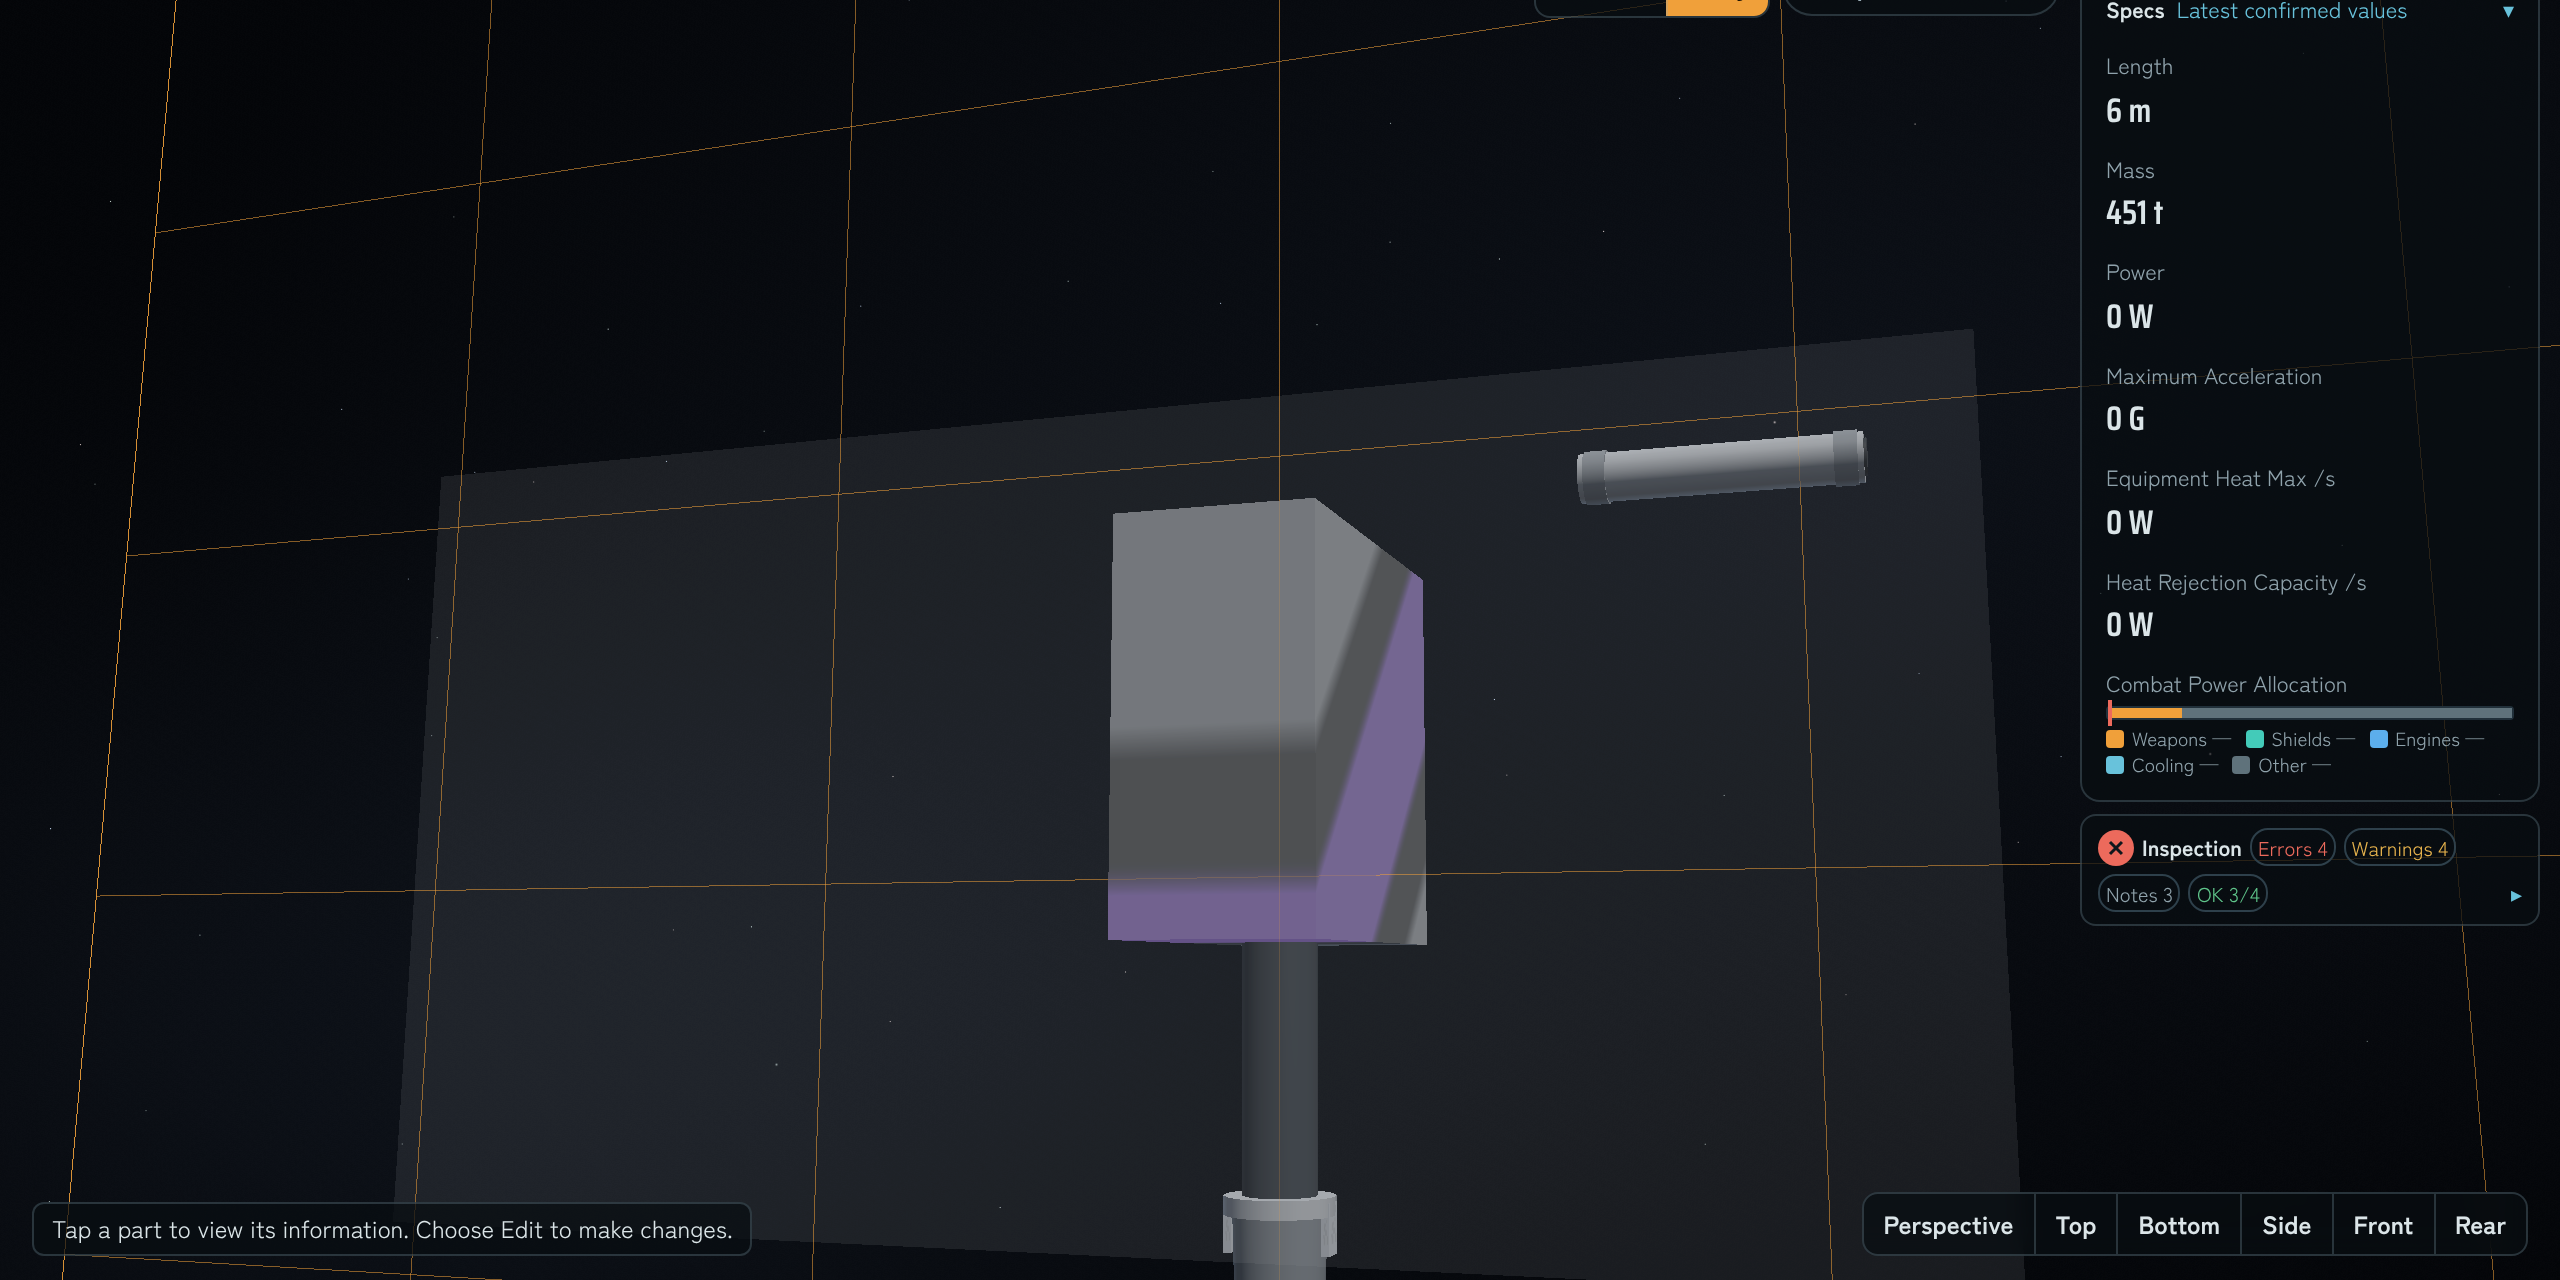
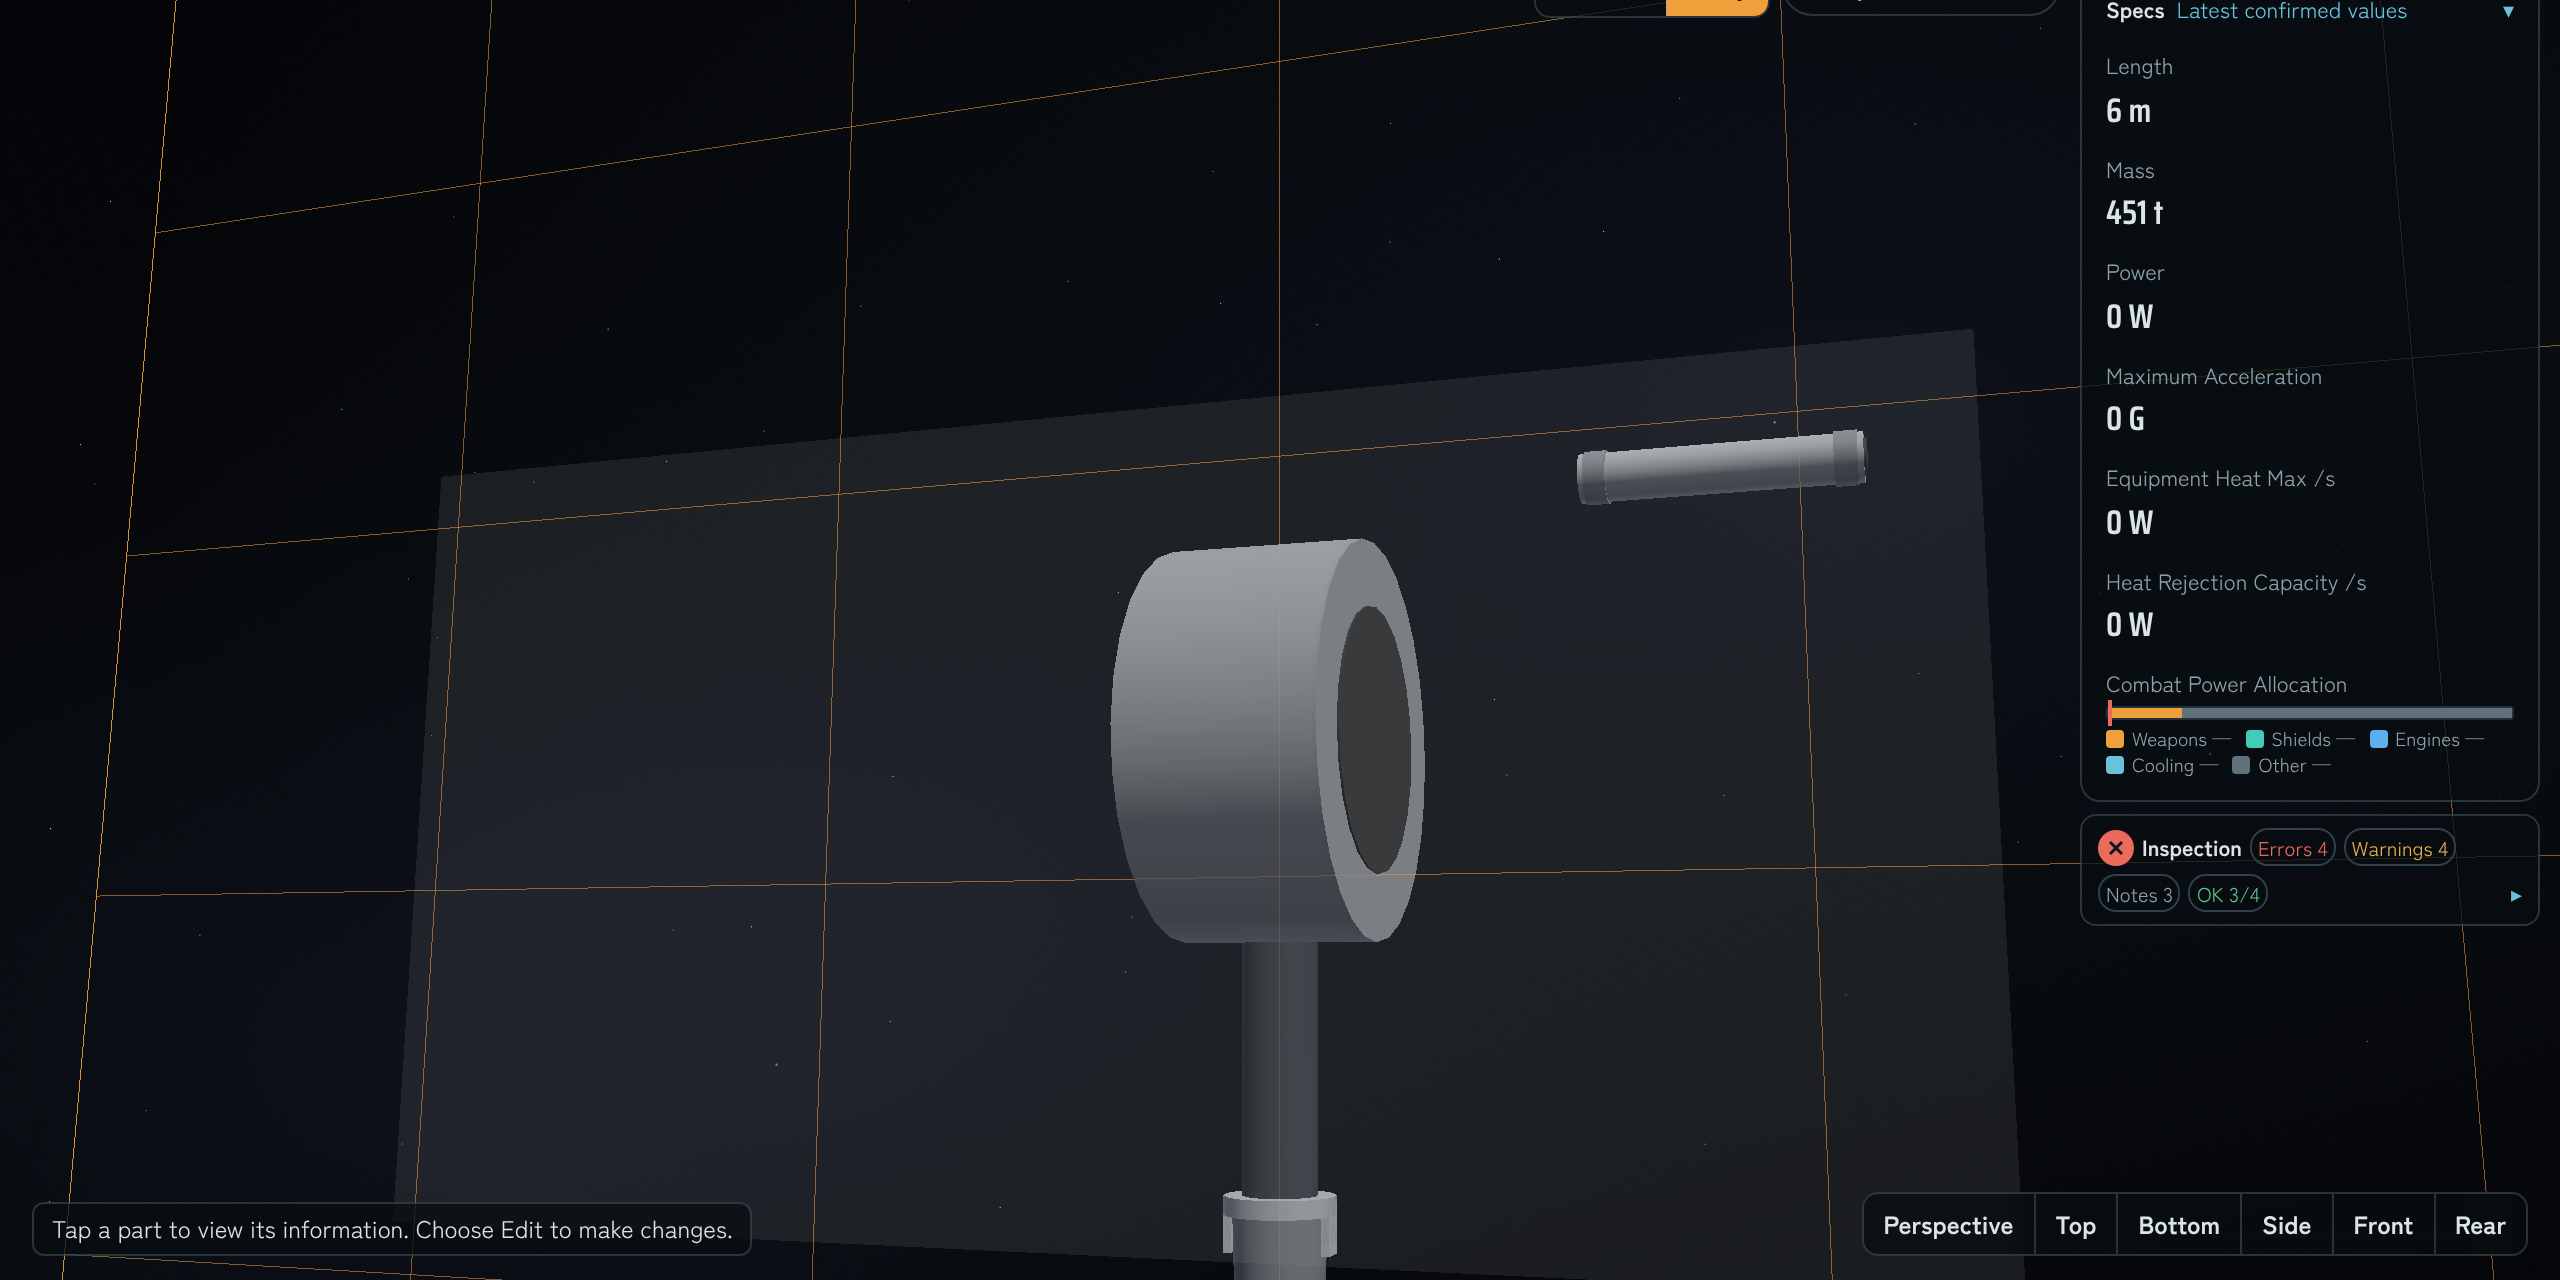
A ring bomb bay is drawn as a ring (user 2026-11-26); browser evidence
Claude-Session: https://claude.ai/code/session_01GGYoFi4wrX6vaJUt9WdesY

Changed region(s): [[0.4062, 0.375, 0.5625, 0.75]]

diff --git a/js/gfx.js b/js/gfx.js
@@ -2279,6 +2279,9 @@ function meshOnePart(out,p,ship,opt,glow){
     if(k==='cockpit'&&!p.room){const canopy=C.canopyTriangles?.(p);if(canopy)triangleMesh(out.struct,canopy,opt.coded?color:CANOPY_GLASS,36);else sphere(C.isInternal(p)?out.interior:out.struct,p.c,p.d/2,opt.coded?color:CANOPY_GLASS,10,4);return;}
     if(k==='astromech'){const r=p.d/2,u=C.norm(p.dir||[0,1,0]),h=p.d*1.05,base=C.sub(p.c,C.mul(u,h/2)),top=C.add(p.c,C.mul(u,h*.18));axisFrustum(C.isInternal(p)?out.interior:out.struct,base,top,r*.82,r*.82,opt.coded?color:[188,196,204],false);if(!C.isInternal(p))sphere(out.struct,top,r*.8,opt.coded?color:ASTRO_DOME,8,3);return;}
     if(d.shape==='sphere'){sphere(C.isInternal(p)?out.interior:k==='gen'?out.gen:out.shield,p.c,p.d/2,color,8,3);return;}
+    // 2026-11-26 A ring bomb bay is drawn as what it is (user「爆弾倉が円筒型になってなくない？」): a cylinder along its length, as wide as its room, with the
+    // hollow inside the 0.3 m ring of bombs shown at both ends.
+    if(k==='bombBay'&&p.bayRing===true&&Array.isArray(p.room)){const L=p.room[0],R=Math.min(p.room[1],p.room[2])/2,ri=Math.max(0,R-(C.CRAFT_BAY?.cell||.3)),a=C.add(p.c,[-L/2,0,0]),b=C.add(p.c,[L/2,0,0]),dark=Array.isArray(color)?color.map(v=>Math.round(v*.35)):color;axisFrustum(out.interior,a,b,R,R,color,true,false,28);if(ri>.02)axisFrustum(out.interior,C.add(a,[-.01,0,0]),C.add(b,[.01,0,0]),ri,ri,dark,true,false,24);return;}
     if(d.shape==='cube'){if(p.room||p._clip){roomMesh(ship,p,k==='hangar'&&ship.hatches.some(h=>h.bay===p.id)?out.hangar:out.interior,color);}else{const r=p.d/2;boxSolid(k==='hangar'&&ship.hatches.some(h=>h.bay===p.id)?out.hangar:out.interior,C.sub(p.c,[r,r,r]),C.add(p.c,[r,r,r]),color,32);}return;}
     const m=C.partDims(p),u=C.norm(p.dir||(k==='engine'?[-1,0,0]:[1,0,0])),a=C.sub(p.c,C.mul(u,m.l/2)),b=C.add(p.c,C.mul(u,m.l/2));
     if(k==='engine'){engineBell(out,p,a,b,u,color,glow,ship);return;}

diff --git a/docs/benchmarks/parts-2026-11-26/README.md b/docs/benchmarks/parts-2026-11-26/README.md
@@ -210,3 +210,9 @@ PR #127 のあとの PR。範囲とユーザーの決定は `docs/handoff-2026-1
 - 描画（`js/gfx.js` だけの変更）：固定式は、砲身の後ろに砲身と同じ線の上の円筒。体積は充電区画の体積そのまま、長さは直径の 2.5 倍（★ こちらで決めた比率。1 m³ で直径 0.80 m・長さ 2.0 m）、両端に環。旋回砲塔は、台の下に直径と高さが同じ縦の円筒（★ 同じく）。
 - 画面での確認：`browser/ion-close.png`（構造物の上面に置いた砲なので、円筒の下半分は構造物に埋まって見える）。
 - 充電区画は今も砲の記録の値で、当たり判定・選択の枠（砲の外形）には入っていない。
+
+## 2026-11-26：円筒型の爆弾倉を円筒として描く
+
+- ユーザー（原文）：「円筒型になってなくない？／爆弾倉が円筒型になってなくない？」（X 線表示で箱として出ていた）。
+- 描画（`js/gfx.js` だけの変更）：円筒型の爆弾倉（`bayRing`）は、長さの方向を軸にした円筒で、直径は区画の幅と高さの小さいほう。両端に、幅 0.3 m の輪の内側の空洞を暗い円で見せる。`browser/way-xray-end.png`。
+- ★ まだ箱のままのもの（決めてもらう点）：設計の計算の側（体積・質量、ほかの機材との重なりの判定、編集画面の寸法の欄）は、長さ × 幅 × 高さの箱のまま。輪の内側の空洞に発射管などを置く（TIE/sa の兵装ポッドの形）と「重なり」と判定される。爆弾の数は輪の決まり（1 列＝円周 ÷ 0.3 m、長さ 0.3 m ごとに 1 列）で出している。
